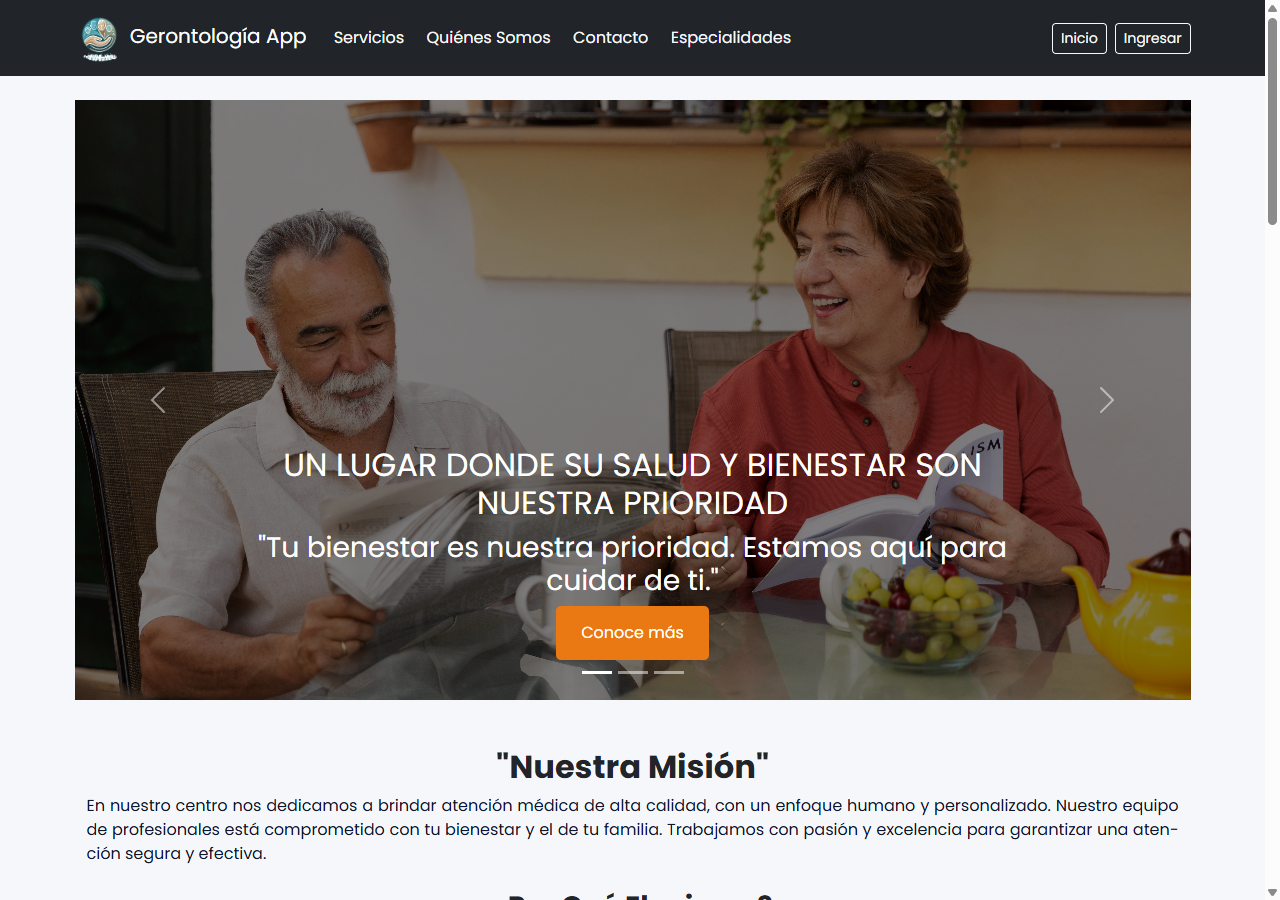
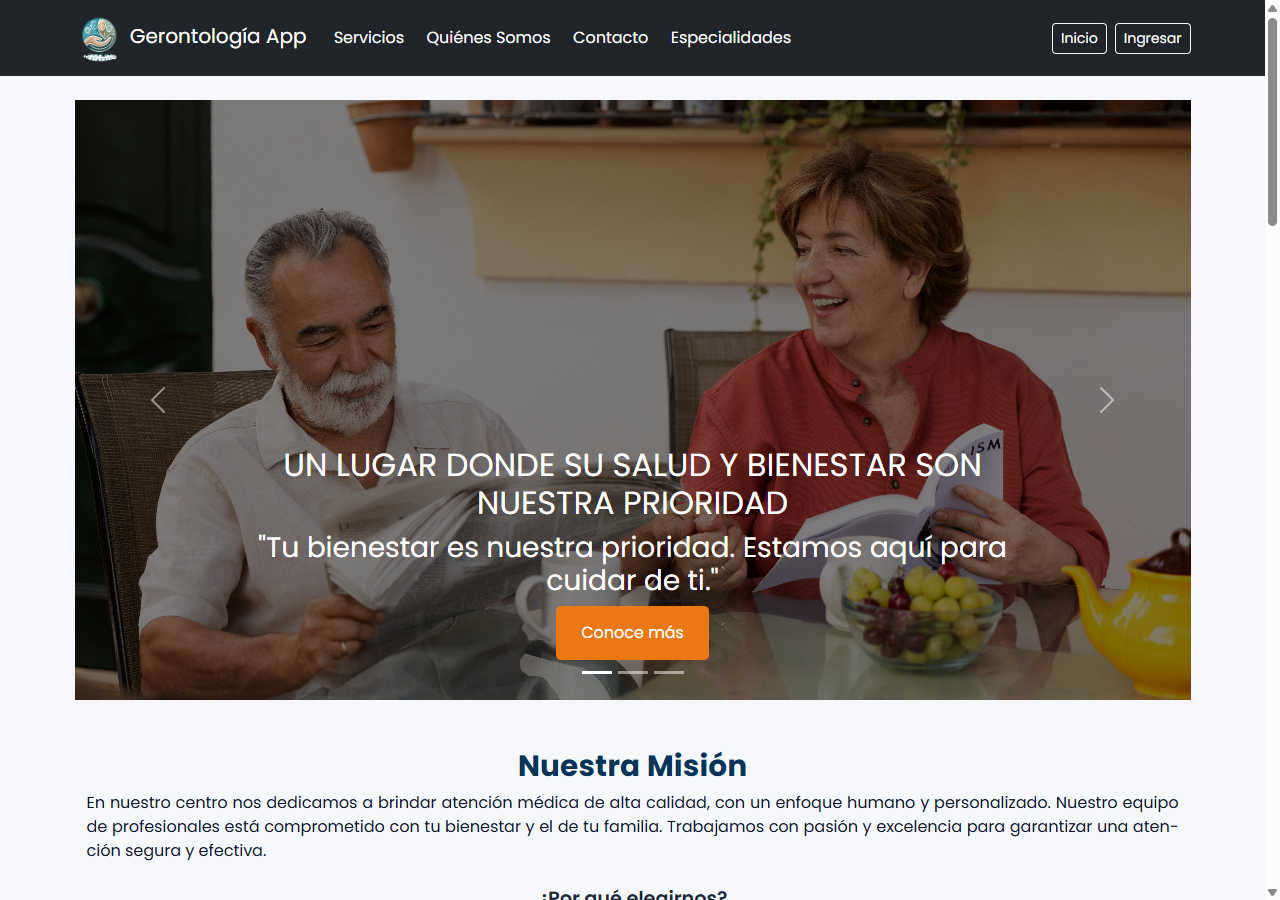
style(titles): harmonize section headings across marketing pages

Changed region(s): [[0.0625, 0.84, 0.9375, 0.9644], [0.375, 0.9956, 0.625, 1.0]]

diff --git a/myapp/templates/contactenos.html b/myapp/templates/contactenos.html
@@ -11,19 +11,19 @@
     <div class="text-white">Contáctenos</div>
 {% endblock %}
 
+{% block body_class %}no-module-topbar{% endblock %}
+
 {% block content %}
     <div class="seccion-contactenos">
         <div class="container">
-            <h1 class="text-dark fw-bold text-center">Contáctenos</h1>
+            <h1 class="section-page-title">Contáctenos</h1>
         </div>
     </div>
 
-{% block body_class %}no-module-topbar{% endblock %}
-
     <div class="contact-form-section">
         <div class="container mt-5 mb-5">
-            <h2 class="text-dark fw-bold text-center">Tu contacto es importante</h2>
-            <h2 class="text-center fw-bold">Escríbenos un mensaje</h2>
+            <h2 class="section-subtitle">Tu contacto es importante</h2>
+            <h2 class="section-subtitle">Escríbenos un mensaje</h2>
             <h3 class="text-center fw-bold">Los campos con asterisco (*) son obligatorios.</h3>
             <div class="row justify-content-center">
                 <div class="col-md-8">
@@ -63,10 +63,10 @@
                 <img src="{% static 'img/Logo.png' %}" alt="Logo" class="img-fluid mb-4">
             </div>
             <div class="col-md-9 text-center text-md-start">
-                <h2 class="mt-4 text-dark fw-bold">Protección de tu información</h2>
-                <h2> Tu información es valiosa y será gestionada conforme a nuestra política de privacidad.</h2>
+                <h2 class="section-subtitle mt-4">Protección de tu información</h2>
+                <p class="text-center text-md-start">Tu información es valiosa y será gestionada conforme a nuestra política de privacidad.</p>
                 <p class="mt-5">Entendemos la importancia de tu información y nos comprometemos a tratarla de manera segura y conforme a la ley de Habeas Data vigente en Colombia. Su uso será exclusivo de la Organización Centro Geriátrico. Para más detalles, te invitamos a visitar nuestra sección de <a href="{% url 'terminos' %}" class="text-dark fw-bold">Manejo de la Información</a>.</p>
-                <h2>Encuéntranos en</h2>
+                <h2 class="section-subtitle text-center text-md-start">Encuéntranos en</h2>
                 <div>
                     <a href="#" class="text-dark me-3"><i class="bi bi-facebook"></i></a>
                     <a href="#" class="text-dark me-3"><i class="bi bi-twitter"></i></a>

diff --git a/myapp/templates/terminos.html b/myapp/templates/terminos.html
@@ -14,11 +14,12 @@
     <div class="text-white">Términos y Condiciones</div>
 {% endblock %}
 
+{% block body_class %}no-module-topbar{% endblock %}
+
 {% block content %}
-    <div class="container text-justify text-lowercase">
-        <h1 class="text-center fw-bold capitalize-title">Términos del Servicio</h1>
+    <div class="container text-justify">
+        <h1 class="section-page-title">Términos del Servicio</h1>
         ...
     </div>
     <footer class="bg-dark text-white text-center py-4"><div class="container"><p>&copy; 2025 Clínica Geriátrica | Todos los derechos reservados</p><div class="mb-3"><h5>Enlaces de Interés</h5><ul class="list-unstyled"><li><a href="{% url 'terminos' %}" class="text-white">Términos y condiciones</a></li><li><a href="#" class="text-white">Políticas de protección y tratamiento de datos</a></li><li><a href="#" class="text-white">Trabaja con nosotros</a></li><li><a href="#" class="text-white">Contáctanos</a></li><li><a href="#" class="text-white">Preguntas frecuentes</a></li><li><a href="#" class="text-white">Noticias</a></li><li><a href="#" class="text-white">Mapa de sitio</a></li></ul></div><div><a href="#" class="text-white me-3"><i class="bi bi-facebook"></i></a><a href="#" class="text-white me-3"><i class="bi bi-twitter"></i></a><a href="#" class="text-white me-3"><i class="bi bi-instagram"></i></a><a href="#" class="text-white me-3"><i class="bi bi-whatsapp"></i></a></div></div></footer>
-    {% block body_class %}no-module-topbar{% endblock %}
 {% endblock %}

diff --git a/myapp/templates/Somos.html b/myapp/templates/Somos.html
@@ -17,7 +17,7 @@
 {% block body_class %}no-module-topbar{% endblock %}
 
 {% block content %}
-    <div class="seccion-somos"><div class="container"><h1 class="text-dark text-center">Quiénes Somos</h1></div></div>
+    <div class="seccion-somos"><div class="container"><h1 class="section-page-title">Quiénes Somos</h1></div></div>
     <hr>
     <div class="hero-banner" style="position:relative; width:100%; height:340px; overflow:hidden;">
         <img src="{% static 'img/cuidados.jpg' %}" class="hero-img" alt="Comprometidos con el bienestar" style="position:absolute; top:0; left:0; width:100%; height:100%; object-fit:cover; object-position:center 30%; z-index:0;">
@@ -28,7 +28,7 @@
     </div>
 
     <div class="container mt-5">
-        <h2 class="text-dark text-center">Perfil del Centro Geriátrico</h2>
+        <h2 class="section-subtitle">Perfil del Centro Geriátrico</h2>
         <p>Somos un Centro Geriátrico dedicado a brindar atención integral y personalizada a las personas mayores, en un entorno seguro, cálido y profesional.</p>
         <p>Nuestras instalaciones están diseñadas para satisfacer las necesidades específicas de la población geriátrica, ofreciendo servicios médicos, terapéuticos y de acompañamiento que promueven su bienestar y mejoran su calidad de vida.</p>
     </div>

diff --git a/myapp/templates/atencion.html b/myapp/templates/atencion.html
@@ -11,21 +11,21 @@
   <div class="text-white">Atenciones Profesionales</div>
 {% endblock %}
 
+{% block body_class %}no-module-topbar{% endblock %}
+
 {% block content %}
   <main>
     <section class="py-5 text-center container">
       <div class="row py-lg-5">
       <div class="col-lg-8 col-md-10 mx-auto">
-        <h1 class="fw-light text-center text-dark fw-bold">Atención Profesional</h1>
+        <h1 class="section-page-title">Atención Profesional</h1>
         <p class="lead text-body-secondary text-center text-dark">En nuestra clínica de gerontología ofrecemos atención especializada, humanizada y personalizada para mejorar la calidad de vida de los adultos mayores. Nos enfocamos en su bienestar físico, emocional y social, brindando cuidados médicos, acompañamiento y un trato digno que promueve su autonomía e integración.</p>
         <p class="text-center"></p>
       </div>
       </div>
     </section>
-    <div class="text-white">Atenciones</div>
     <div class="album py-5 bg-body-tertiary">
       <div class="container">
-  {% block body_class %}no-module-topbar{% endblock %}
       <div class="card-container">
               <!-- Card 1 -->
               <div class="card shadow-sm custom-border">

diff --git a/myapp/templates/index.html b/myapp/templates/index.html
@@ -58,14 +58,14 @@
     
     
 
-      <div class="container mt-5 text-center">
-        <h2 class="mt-4 text-dark fw-bold">"Nuestra Misión"</h2>
+            <div class="container mt-5 text-center">
+                <h2 class="section-page-title">Nuestra Misión</h2>
         <p>
             En nuestro centro nos dedicamos a brindar atención médica de alta calidad, con un enfoque humano y personalizado. 
             Nuestro equipo de profesionales está comprometido con tu bienestar y el de tu familia. 
             Trabajamos con pasión y excelencia para garantizar una atención segura y efectiva.
         </p>
-        <h3 class="mt-4 text-dark fw-bold">¿Por Qué Elegirnos?</h3>
+                <h3 class="section-subtitle mt-4">¿Por qué elegirnos?</h3>
         <p>
             Contamos con tecnología de vanguardia, un equipo altamente capacitado y un ambiente de confianza y 
             respeto. Tu salud es nuestra prioridad.

diff --git a/myapp/templates/servicios.html b/myapp/templates/servicios.html
@@ -16,7 +16,7 @@
 {% block content %}
     <div class="seccion-servicios">
         <div class="container">
-            <h1 class="text-dark fw-bold text-center">Nuestros Servicios</h1>
+            <h1 class="section-page-title">Nuestros Servicios</h1>
             <p class="descripcion">En el Centro Geriátrico ofrecemos atención integral orientada a mejorar la calidad de vida de las personas mayores, garantizando su bienestar físico, emocional y social. Nuestro equipo multidisciplinario brinda acompañamiento permanente, actividades recreativas y terapéuticas, así como apoyo especializado para residentes y sus familias.</p>
         </div>
     </div>

diff --git a/myapp/static/css/global.css b/myapp/static/css/global.css
@@ -105,6 +105,24 @@ p {
     width: auto;
 }
 
+/* Shared marketing section headings */
+.section-page-title {
+    font-size: clamp(1.5rem, 2.3vw, 2.2rem);
+    font-weight: 700;
+    letter-spacing: 0.2px;
+    color: var(--accent-1);
+    text-align: center;
+    margin-bottom: 0.5rem;
+}
+
+.section-subtitle {
+    font-size: clamp(1.05rem, 1.5vw, 1.35rem);
+    font-weight: 600;
+    color: #1f2937;
+    text-align: center;
+    margin-bottom: 0.75rem;
+}
+
 /* Global responsive helpers */
 img,
 video,

diff --git a/myapp/templates/especialidades.html b/myapp/templates/especialidades.html
@@ -16,7 +16,7 @@
 {% block content %}
     <div class="seccion-especialidades">
         <div class="container">
-            <h1 class="text-dark fw-bold text-center">Especialidades</h1>
+            <h1 class="section-page-title">Especialidades</h1>
         </div>
     </div>
 
